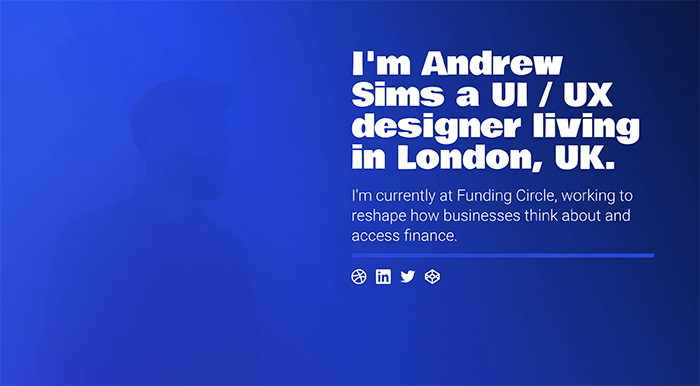
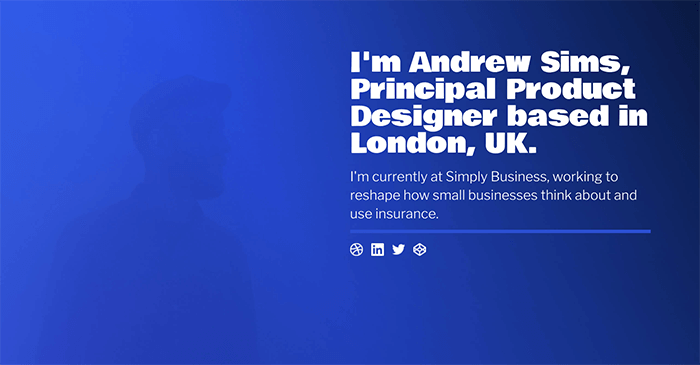
Update intro text and preview image
Updates intro text to include Principal role and updates preview image to reflect this change.

Changed region(s): [[0.48, 0.1205, 0.93, 0.7534]]

diff --git a/index.html b/index.html
@@ -4,12 +4,12 @@
 <head>
     <meta charset="UTF-8">
     <title>Andrew Sims | UI/UX Designer</title>
-    <meta name="description" content="UI/UX Designer based in London. Currently working at Simply Business.">
-    <meta name="keywords" content="Andrew Sims, UI Design, UX Design, Web Design, London, Designer">
+    <meta name="description" content="Principal Product Designer based in London, UK. Currently working at Simply Business.">
+    <meta name="keywords" content="Andrew Sims, UI Design, UX Design, Web Design, London, Product Design">
     <meta name="viewport" content="width=device-width, initial-scale=1.0, user-scalable=no">
     <meta name="author" content="Andrew Sims">
-    <meta property="og:title" content="Andrew Sims | UI/UX Designer" />
-    <meta property="og:description" content="UI/UX Designer based in London. Currently working at Simply Business." />
+    <meta property="og:title" content="Andrew Sims | Product Designer" />
+    <meta property="og:description" content="Principal Product Designer based in London, UK. Currently working at Simply Business." />
     <meta property="og:url" content="https://andrew-sims.github.io/" />
     <meta property="og:image" content="https://andrew-sims.github.io/images/preview.png" />
 
@@ -22,7 +22,7 @@
 
     <section class="section--intro">
         <div class="big-quote right border-blue">
-            <div class="quote">I'm Andrew Sims a UI / UX designer living in London, UK.</div>
+            <div class="quote">I'm Andrew Sims, Principal Product Designer based in London, UK.</div>
             <p>I'm currently at Simply Business, working to reshape how small businesses think about and use insurance.</p>
             <div class="icon-bar">
                 <a class="icons" href="https://dribbble.com/andrewsims"><img src="images/dribbble.png" alt="Dribbble"></a>
